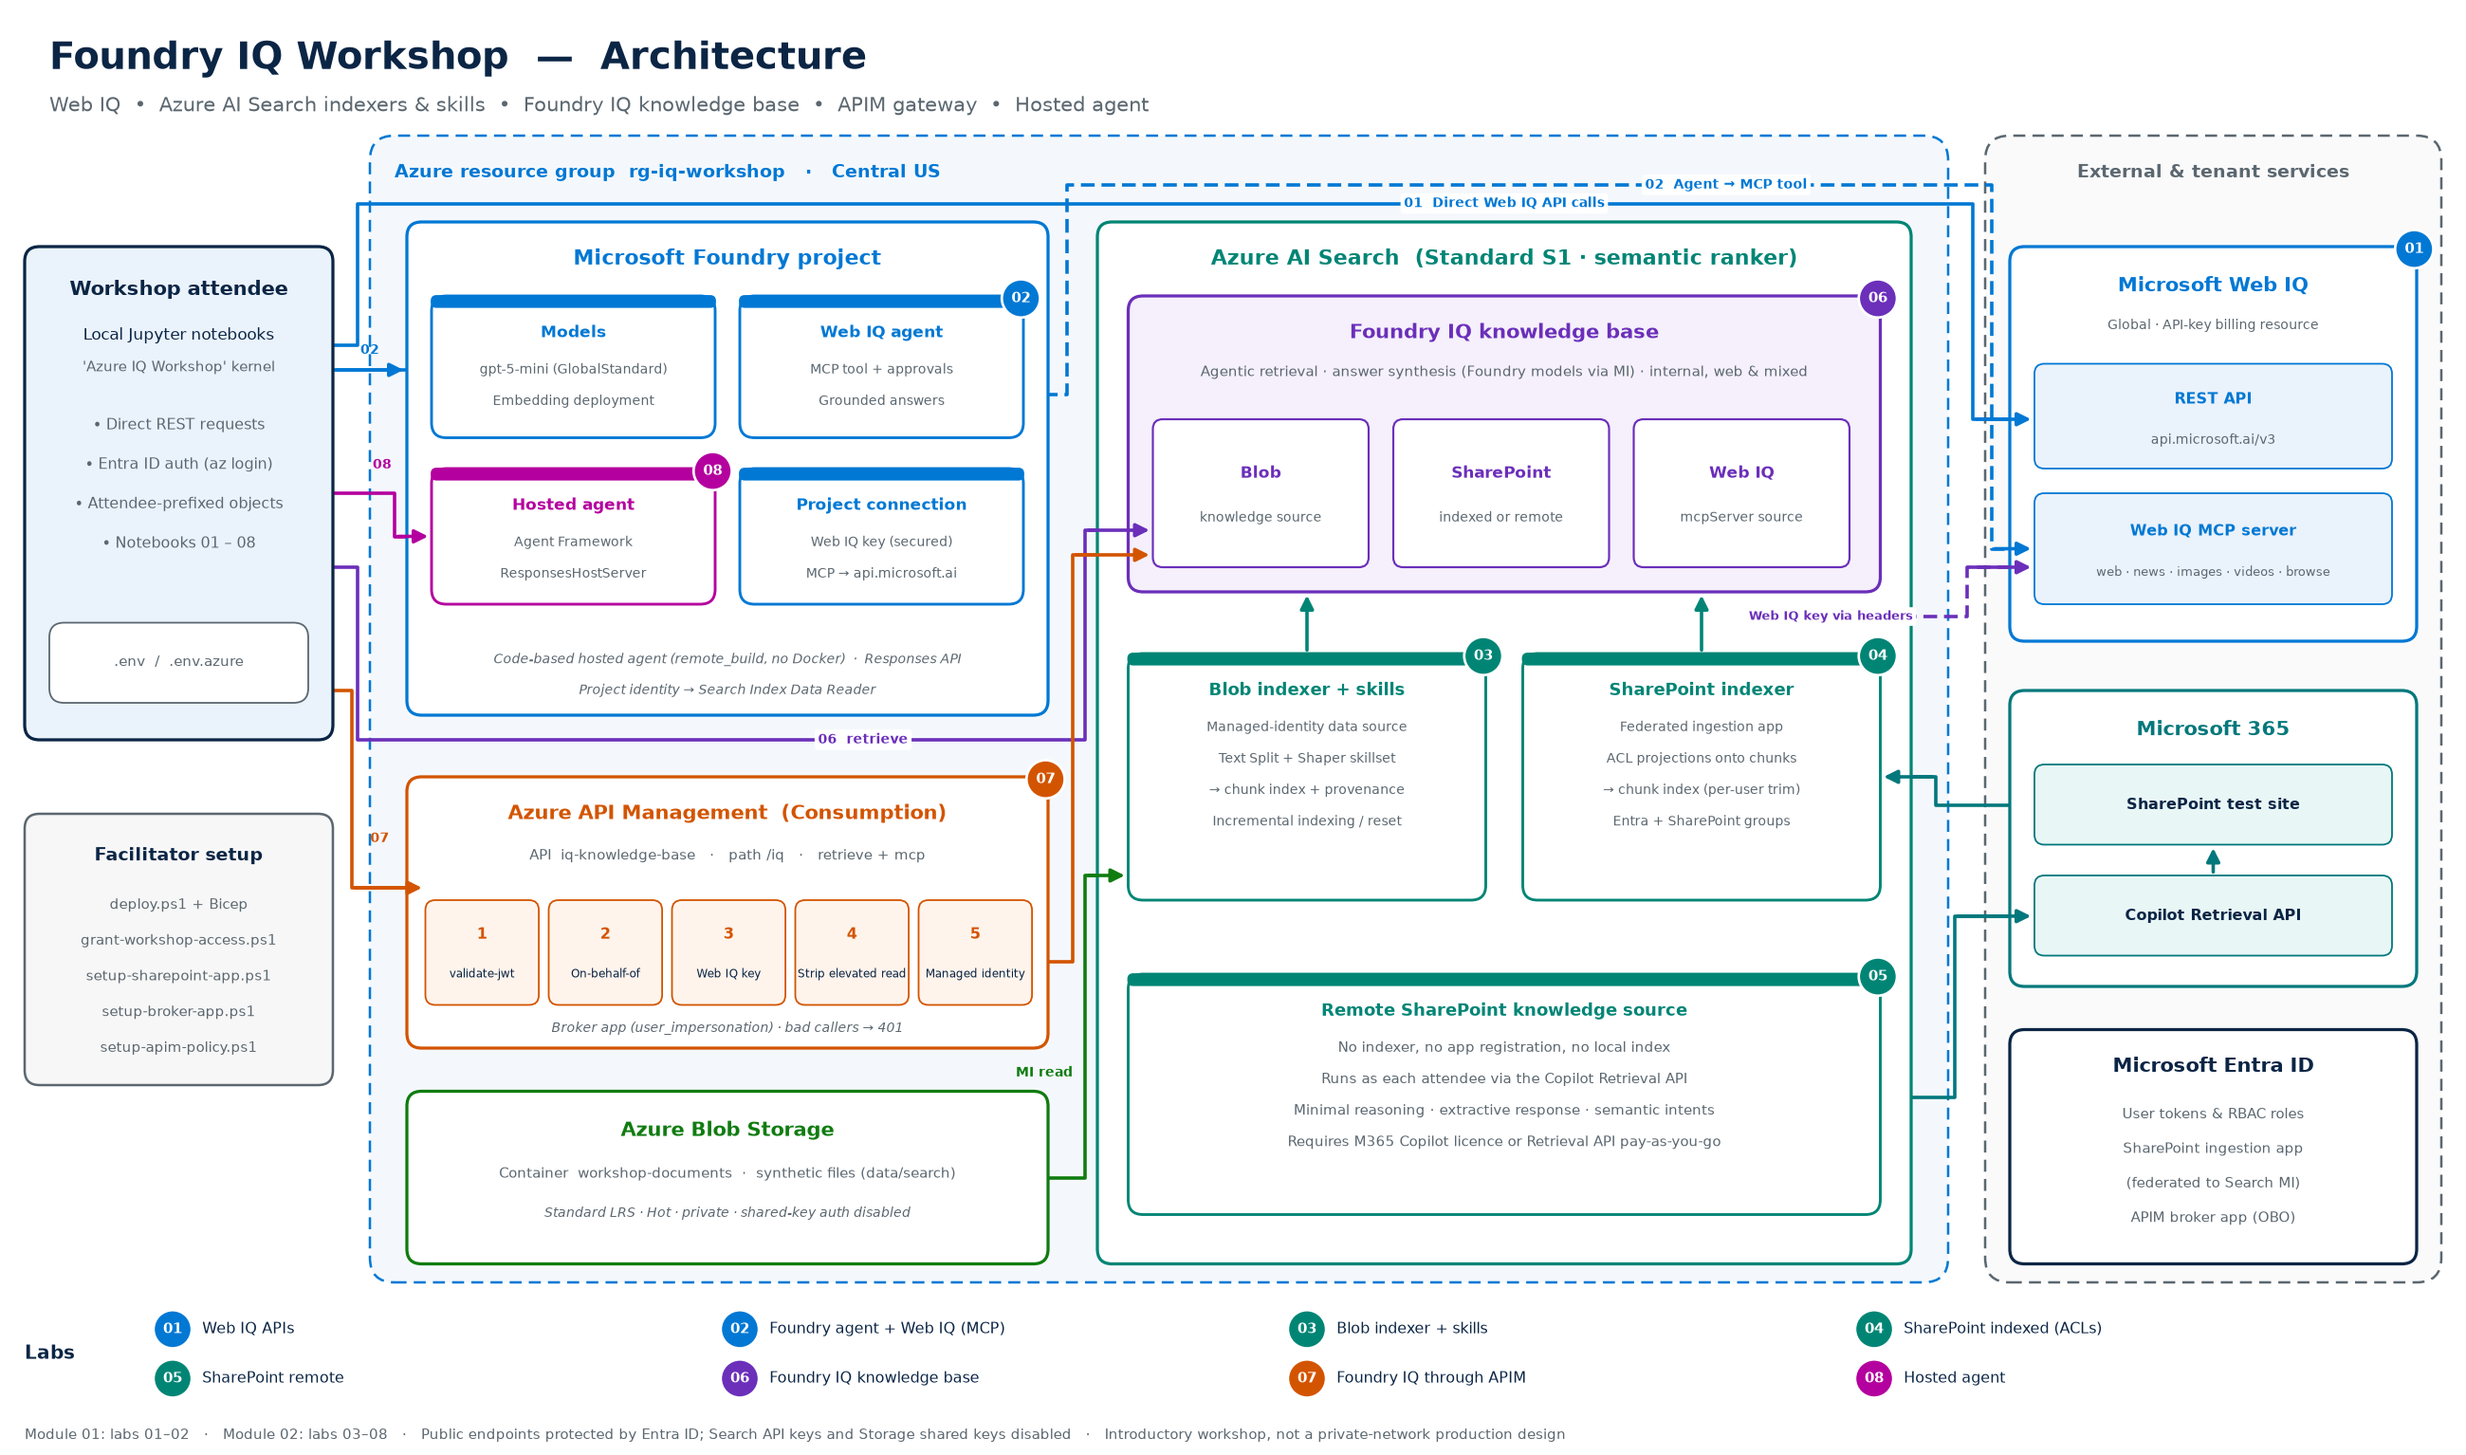
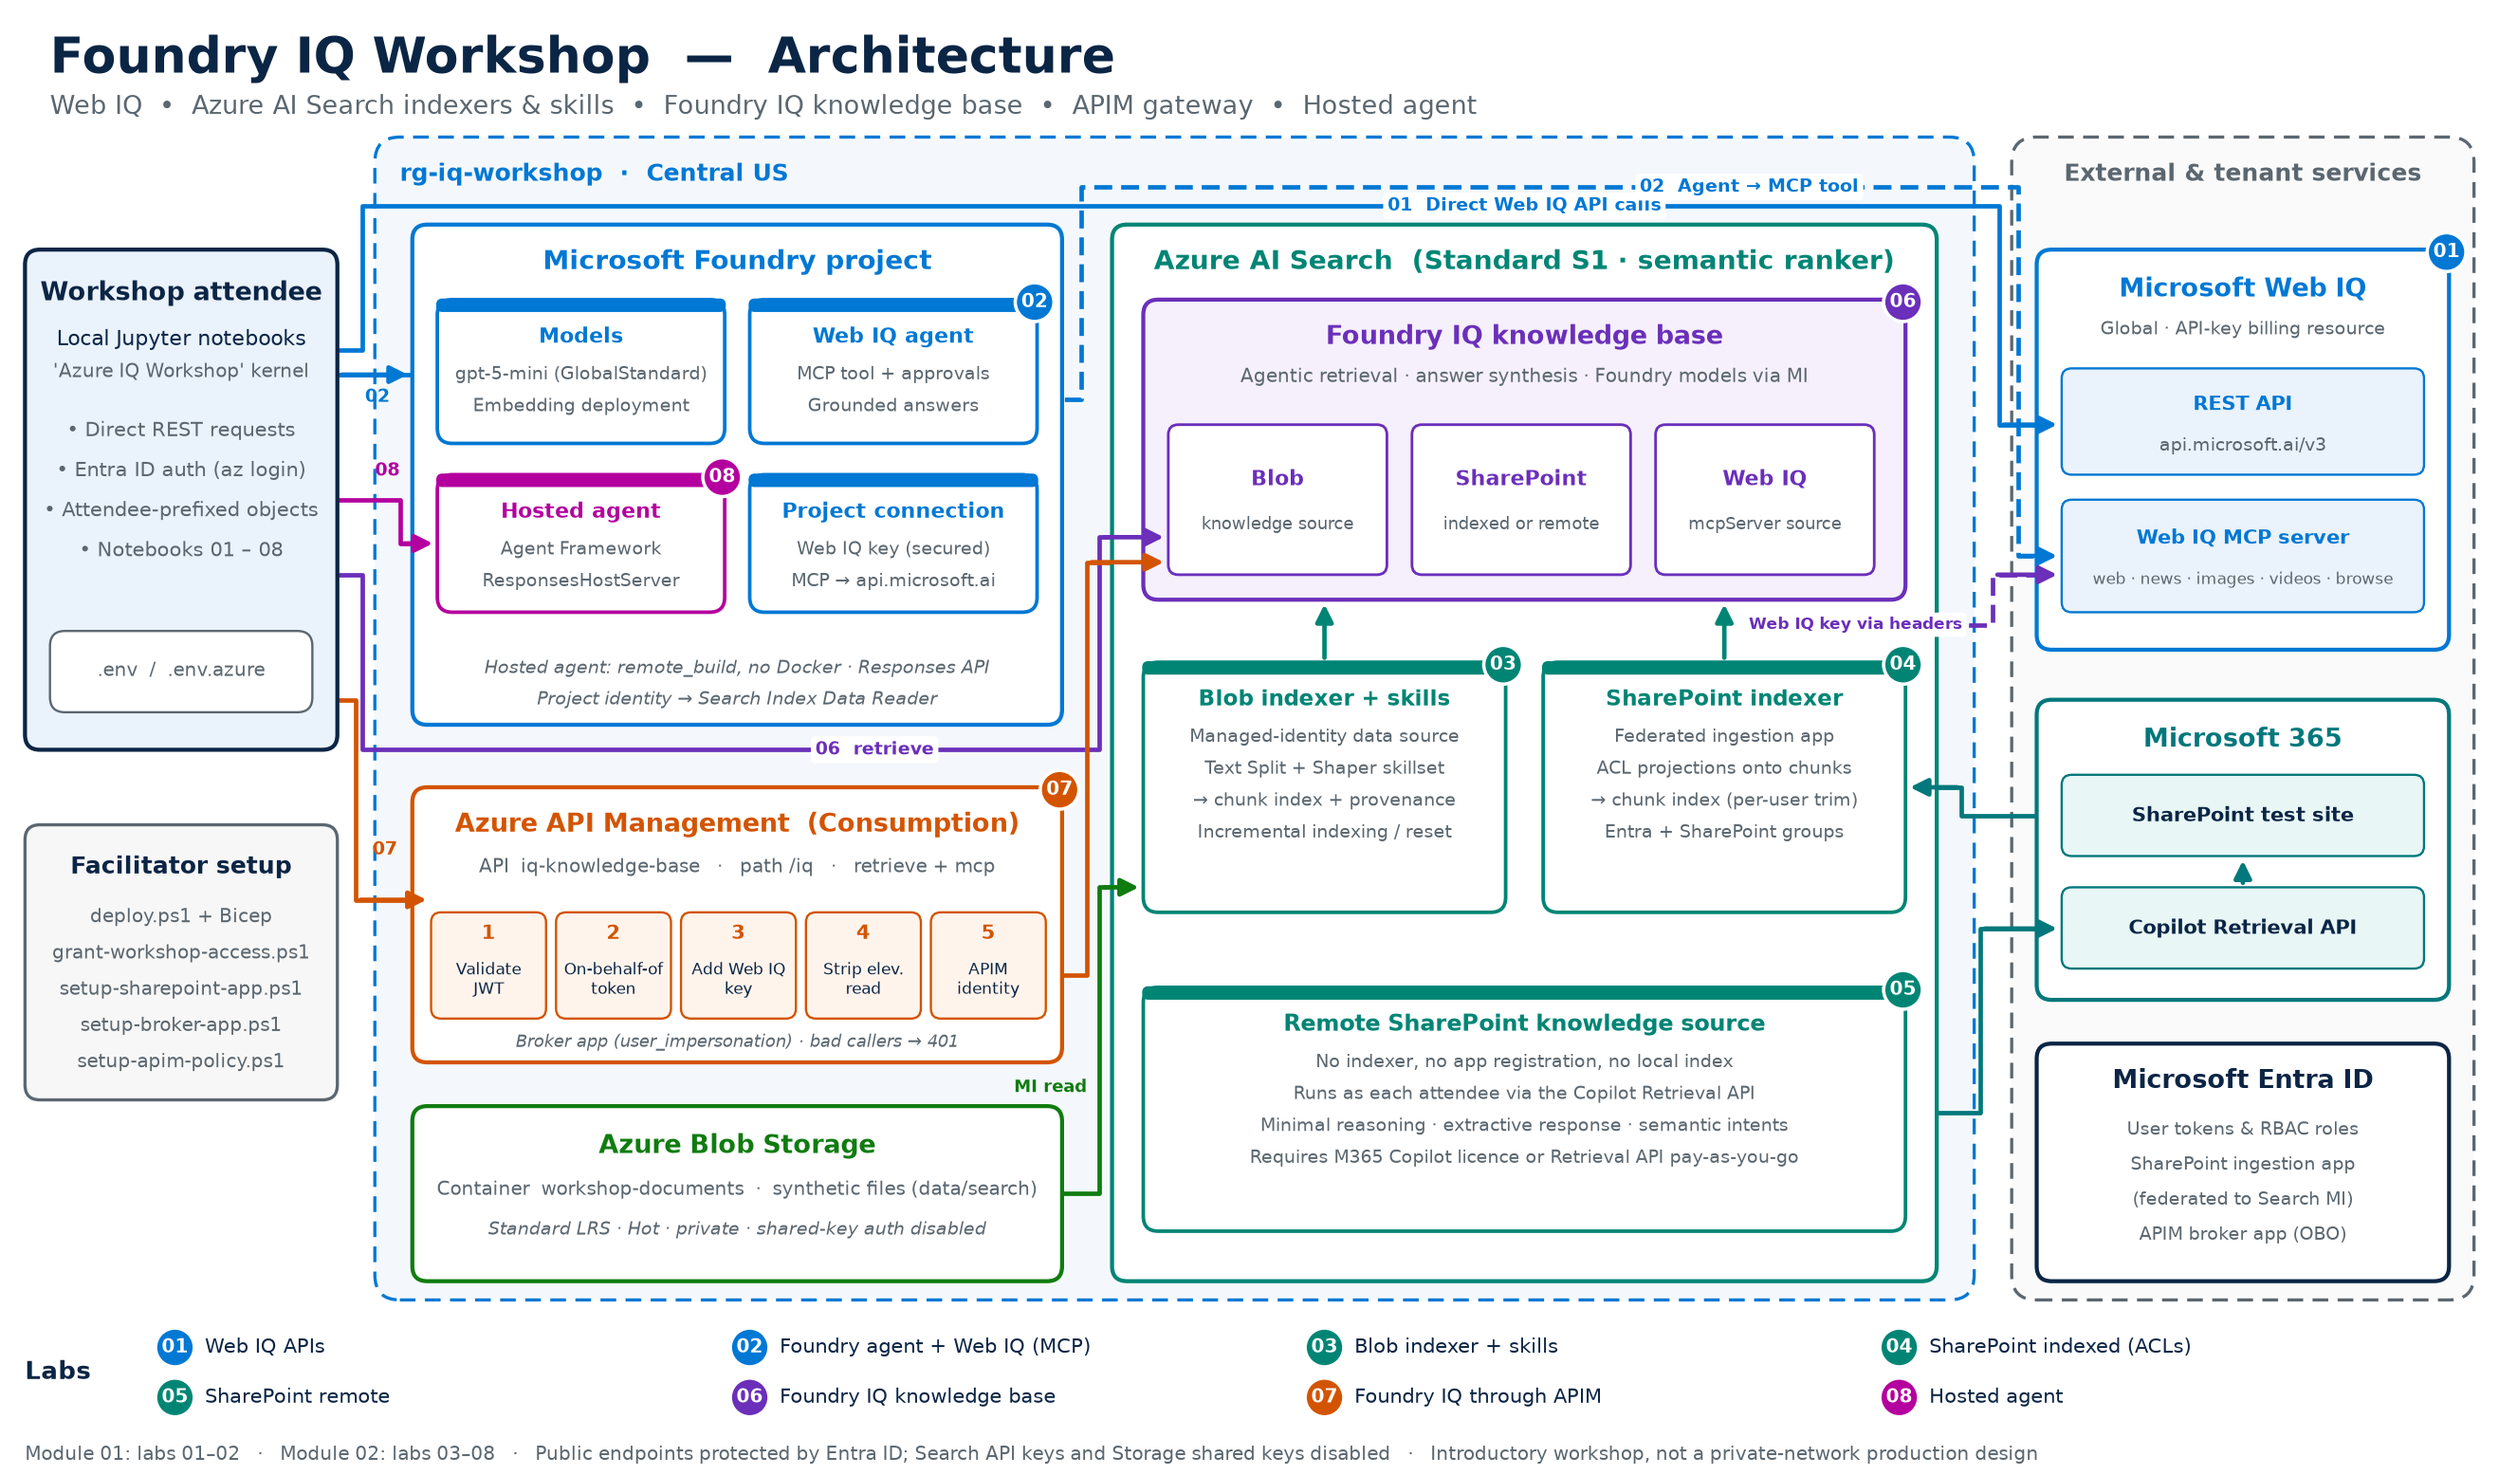
updated

diff --git a/docs/participants/python.md b/docs/participants/python.md
@@ -13,14 +13,14 @@ Set up the Python environment once. If `.venv` already exists, reuse it and skip
 ```powershell
 python -m venv .venv
 .\.venv\Scripts\python.exe -m pip install -r requirements.txt
-.\.venv\Scripts\python.exe -m ipykernel install --user --name iq-workshop --display-name 'Azure IQ Workshop'
+.\.venv\Scripts\python.exe -m ipykernel install --user --name iq-workshop --display-name 'Web & Foundry IQ Workshop'
 # Skip this command if using VS Code's notebook editor.
 .\.venv\Scripts\python.exe -m jupyter lab
 ```
 
 On Microsoft-managed devices that block public PyPI, add `--index-url https://packagefeedproxy.microsoft.io/pypi/simple` to the pip command.
 
-Choose **Azure IQ Workshop** in the notebook's kernel picker. In VS Code, open the `.ipynb` file under `python-notebooks` and select the kernel at the top right; you do not need to start JupyterLab if using VS Code. Start the kernel with `python-notebooks` as its working directory, as lab 01 loads its settings from the parent folder. For the Web IQ track, open notebook 01 and run its cells from top to bottom, then continue with 02 and 03.
+Choose **Web & Foundry IQ Workshop** in the notebook's kernel picker. In VS Code, open the `.ipynb` file under `python-notebooks` and select the kernel at the top right; you do not need to start JupyterLab if using VS Code. Start the kernel with `python-notebooks` as its working directory, as lab 01 loads its settings from the parent folder. For the Web IQ track, open notebook 01 and run its cells from top to bottom, then continue with 02 and 03.
 
 After setup, follow the [shared settings and resource-name guidance](README.md#workshop-settings-and-resource-names).
 For headless execution, see [the notebook runner](../reference/README.md#verify-notebooks-from-a-python-script).

diff --git a/docs/reference/README.md b/docs/reference/README.md
@@ -66,7 +66,7 @@ Use only public, non-sensitive queries. Retrieved pages are untrusted evidence, 
 | API 403 / MCP tool absent | Check your allowed services and full-document entitlement. The optional notebook flags cannot grant access. |
 | Browse returns 202 | Lab 01 waits for `retryAfter` and retries with a bounded limit. An unfinished crawl prints an error; the console app also exits nonzero. |
 | 429 | Respect `Retry-After`; reduce concurrency, especially with shared workshop AppIDs. |
-| No Python kernel / imports fail | Select **Azure IQ Workshop**, install `requirements.txt` with that environment's Python, then restart the kernel. |
+| No Python kernel / imports fail | Select **Web & Foundry IQ Workshop**, install `requirements.txt` with that environment's Python, then restart the kernel. |
 | Missing `.env.azure` | Ask the facilitator for the shared configuration, or finish your own deployment. Do not invent endpoints. |
 | Notebook uses an old endpoint | Remove stale generated-setting overrides from `.env` and restart the kernel. |
 | Foundry 403 | Check the sign-in tenant and parent-resource/project roles for the specific operation; allow time for propagation. |

diff --git a/README.md b/README.md
@@ -1,4 +1,4 @@
-# Azure IQ workshop
+# Web & Foundry IQ Workshop
 
 ## Overview
 
